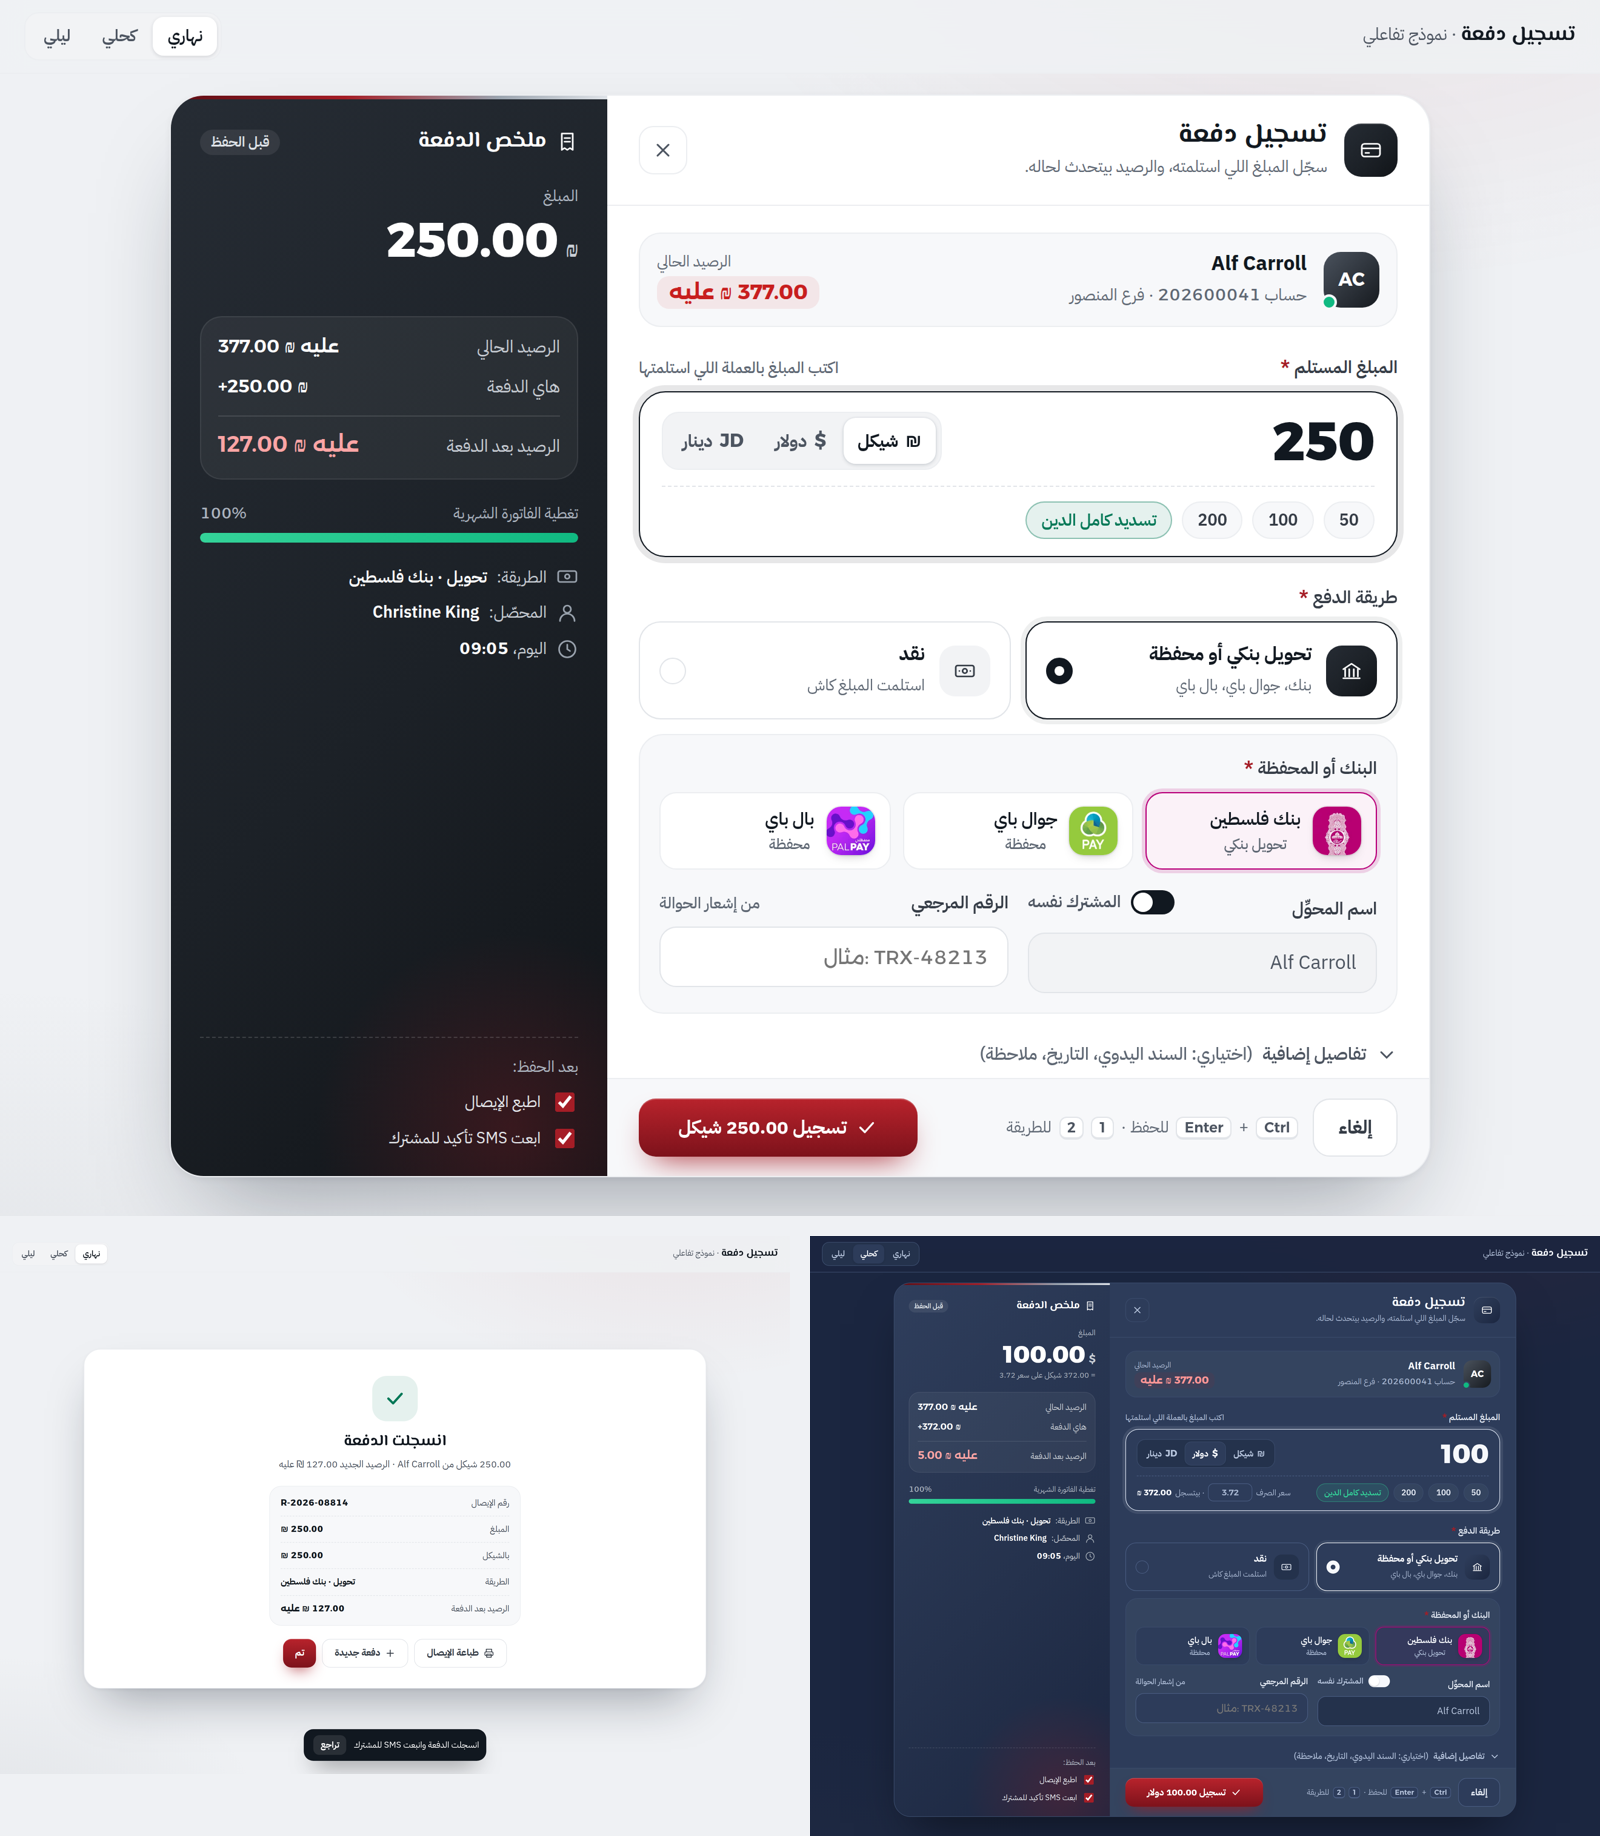
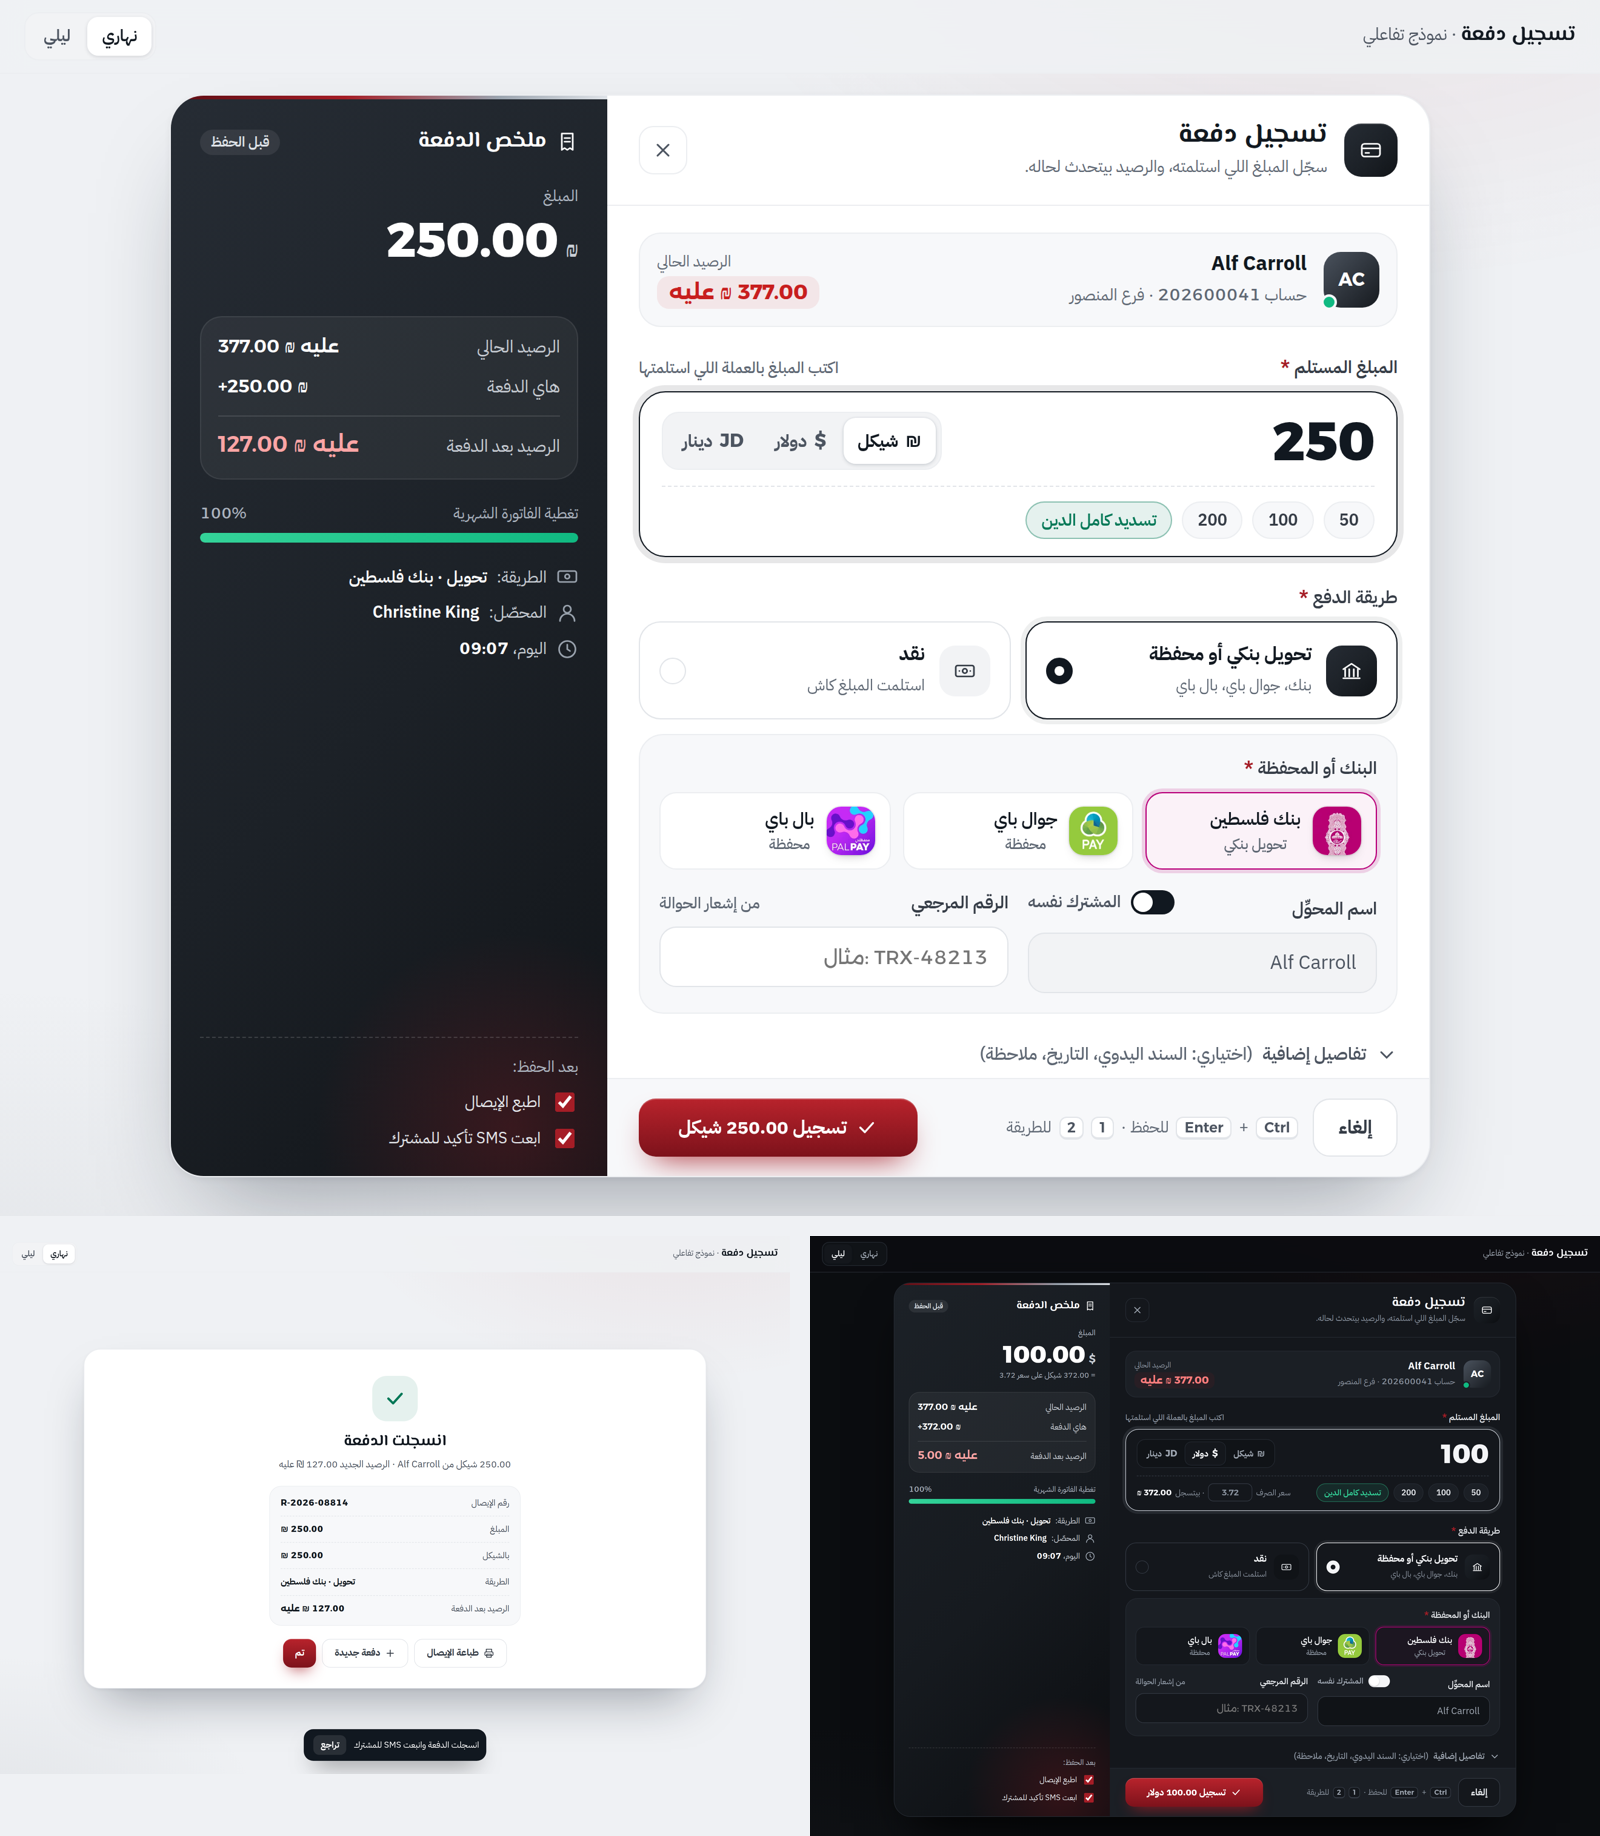
Payment prototype: keep only the site's light and dark themes
Claude-Session: https://claude.ai/code/session_01XCSA7vHgQhRJfaWcSo7nax

Changed region(s): [[0.5, 0.652, 1.0, 1.0], [0.0625, 0.0, 0.0938, 0.031]]

diff --git a/AF-PowerCollect-تسجيل-دفعة.html b/AF-PowerCollect-تسجيل-دفعة.html
@@ -16,13 +16,6 @@
   --focus:#111820;--shadow:0 40px 80px -30px #10182866,0 2px 6px #1018280d;
   --hero:linear-gradient(135deg,#262c34,#1c2127 55%,#111418);
 }
-:root[data-theme=navy]{
-  --page:#1b2640;--surface:#2d3c5a;--raised:#34445f;--sunken:#24324c;
-  --line:#4a5d82;--line2:#3a4b6b;--ink:#f6f8fc;--ink2:#e2e8f2;--muted:#b8c6de;--faint:#a9b8d2;
-  --brand-tint:#e0707a22;--success:#34d399;--success-tint:#34d3991f;--info:#96c0fc;--warn:#fbbf24;--danger:#ff9696;
-  --focus:#dfe7f5;--shadow:0 40px 80px -30px #0008;
-  --hero:linear-gradient(135deg,#2f3e5c,#25324d 55%,#1b2640);
-}
 :root[data-theme=dark]{
   --page:#0b0d10;--surface:#14171c;--raised:#1b1f25;--sunken:#101317;
   --line:#343a44;--line2:#252a32;--ink:#f4f5f7;--ink2:#e0e3e7;--muted:#9ea6b1;--faint:#8b94a0;
@@ -222,7 +215,6 @@ svg.i{width:18px;height:18px;flex:none}
   <div><b>تسجيل دفعة</b> · نموذج تفاعلي</div>
   <div class="seg" role="group" aria-label="الوضع">
     <button data-theme="light" aria-pressed="true">نهاري</button>
-    <button data-theme="navy" aria-pressed="false">كحلي</button>
     <button data-theme="dark" aria-pressed="false">ليلي</button>
   </div>
 </div>
